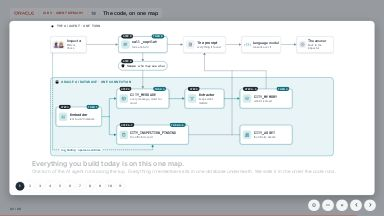
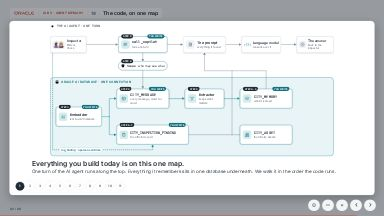
Lab 3 map: one numbering rule, the steps; exercises say YOU WRITE instead of a TODO number, and the Part numbers are gone

diff --git a/src/content/lab3Map.ts b/src/content/lab3Map.ts
@@ -21,7 +21,9 @@ export interface MapStep {
   /** the whole map, full width, no notebook (the first step) */
   wide?: boolean;
   cam: MapCam;
-  todo?: string;
+  /** the attendee writes this part: how much. One numbering rule on the page (owner, 4 Nov): the steps; a TODO has no number of its own here */
+  write?: string;
+  /** which day of the story */
   kicker?: string;
   ask: string;
   plain: string;
@@ -39,14 +41,14 @@ const ALL: MapCam = { s: 0.44, cx: 960, cy: 545 };
 
 export const MAP_STEPS: MapStep[] = [
   { title: 'The whole map', wide: true, cam: { s: 0.82, cx: 960, cy: 545 }, ask: 'Everything you build today is on this one map.', plain: 'One turn of the AI agent runs along the top. Everything it remembers sits in one database underneath. We walk it in the order the code runs.', lines: [] },
-  { title: 'One connection', cam: { s: 0.6, cx: 620, cy: 690 }, kicker: 'PART 1 · PART 2', ask: 'Where does everything live?', plain: 'One filing room, not five. One connection gives the AI agent its tables, its memory and its search.', see: 'OracleAgentMemory ready. Tables under prefix CITY_*', nodes: ['embedder', 'message', 'extractor', 'memory', 'finding', 'asset'], lines: [], code: { cell: 20, from: 'memory = OracleAgentMemory(', to: 'table_name_prefix', keys: ['connection=vector_conn', 'extract_memories=True', 'table_name_prefix'] } },
-  { title: 'The embedder', cam: { s: 1.25, cx: 330, cy: 710 }, todo: 'TODO 1', kicker: '2 LINES', ask: 'How do you search by meaning?', plain: 'Text becomes 384 numbers, like an address on a map of meaning. Reports that mean the same thing land close together.', see: 'TODO 1 passed - embedder returns float32 (n, 384) arrays', nodes: ['embedder'], lines: ['o', 'p', 'q'], code: { cell: 15, from: 'def embed(self', to: 'return np.asarray', keys: ['vectors = self.provider', 'return np.asarray'] } },
-  { title: 'A report goes in', cam: { s: 0.72, cx: 1036, cy: 600 }, todo: 'TODO 2', kicker: '2 LINES', ask: 'What happens when an inspector reports?', plain: 'Two things. The report is filed word for word. Then the extractor writes small cards of what is worth keeping.', see: 'TODO 2 passed - added message(s): …', nodes: ['message', 'extractor', 'memory'], lines: ['g', 'h'], code: { cell: 29, from: '# TODO 2', to: 'return await t.add_messages_async', keys: ['content = f', 'return await t.add_messages_async'] } },
-  { title: 'Finding a memory', cam: { s: 1.2, cx: 1412, cy: 600 }, todo: 'TODO 3', kicker: '1 LINE', ask: 'Why did the search come back empty?', plain: 'A memory belongs to whoever wrote it. Search with no name and you get nothing. Give the right name and the cards light up.', see: 'TODO 3 passed - … memories extracted from 4 narratives', nodes: ['memory'], lines: [], code: { cell: 39, from: 'results = await', to: 'max_results=30', keys: ['user_id="inspector_demo"'] } },
-  { title: 'The official record', cam: { s: 0.88, cx: 560, cy: 780 }, todo: 'TODO 4', kicker: '1 LINE', ask: 'What is a finding, if it is not a memory?', plain: 'A memory is what the AI agent noticed. A finding is what a person signed. It gets its own table, and its description becomes numbers too.', see: 'TODO 4 passed - finding_id=…', nodes: ['finding', 'embedder'], lines: ['o', 'q'], code: { cell: 50, from: '# TODO 4', to: 'vec = array', keys: ['vec = array'] } },
-  { title: 'Search with walls', cam: { s: 1.05, cx: 720, cy: 820 }, todo: 'TODO 5', kicker: 'ABOUT 7 LINES', ask: 'Nearest in meaning, but only this bridge?', plain: 'One SQL statement does both: the closest in meaning, inside the walls of this asset and this category.', see: 'TODO 5 passed - broad=…, asset-filtered=…, category-filtered=…', nodes: ['finding'], lines: [], code: { cell: 55, from: 'SELECT finding_id', to: 'FETCH FIRST', keys: ['VECTOR_DISTANCE', 'WHERE (:asset_id', 'AND (:category'] } },
-  { title: 'Who sees what', cam: { s: 0.76, cx: 800, cy: 460 }, kicker: 'PART 5', ask: 'Why can Vance not read Mercer’s private note?', plain: 'Each inspector has a private thread. What the extractor learns goes on a shelf for the asset. The database enforces this, not the AI agent.', see: "Multi-tenancy verified: Vance sees city-wide guidelines but NOT Mercer's personal notes.", nodes: ['scope', 'copilot', 'message', 'memory'], lines: ['e', 'f'], code: { cell: 71, extra: 'thread_id = f"', from: 'pooled = await', to: 'max_results=3', keys: ['thread_id = f"', 'user_id=asset_id', 'exact_thread_match'] } },
-  { title: 'One whole turn', cam: { s: 0.46, cx: 960, cy: 545 }, todo: 'TODO 6', kicker: '2 LINES', ask: 'What does the AI agent actually read?', plain: 'You write two lines: its context card and the similar findings. The rest is built: put it all in one prompt, ask, save.', see: 'TODO 6 passed - copilot ran end-to-end', nodes: ['copilot', 'scope', 'prompt', 'model', 'answer', 'memory', 'finding', 'asset'], lines: ['b', 'c', 'd', 'read', 'n', 'l', 'm', 'e'], code: { cell: 71, from: '# TODO 6 (a)', to: 'similar = find_similar', keys: ['card = await', 'similar = find_similar'] } },
+  { title: 'One connection', cam: { s: 0.6, cx: 620, cy: 690 }, ask: 'Where does everything live?', plain: 'One filing room, not five. One connection gives the AI agent its tables, its memory and its search.', see: 'OracleAgentMemory ready. Tables under prefix CITY_*', nodes: ['embedder', 'message', 'extractor', 'memory', 'finding', 'asset'], lines: [], code: { cell: 20, from: 'memory = OracleAgentMemory(', to: 'table_name_prefix', keys: ['connection=vector_conn', 'extract_memories=True', 'table_name_prefix'] } },
+  { title: 'The embedder', cam: { s: 1.25, cx: 330, cy: 710 }, write: '2 lines', ask: 'How do you search by meaning?', plain: 'Text becomes 384 numbers, like an address on a map of meaning. Reports that mean the same thing land close together.', see: 'TODO 1 passed - embedder returns float32 (n, 384) arrays', nodes: ['embedder'], lines: ['o', 'p', 'q'], code: { cell: 15, from: 'def embed(self', to: 'return np.asarray', keys: ['vectors = self.provider', 'return np.asarray'] } },
+  { title: 'A report goes in', cam: { s: 0.72, cx: 1036, cy: 600 }, write: '2 lines', ask: 'What happens when an inspector reports?', plain: 'Two things. The report is filed word for word. Then the extractor writes small cards of what is worth keeping.', see: 'TODO 2 passed - added message(s): …', nodes: ['message', 'extractor', 'memory'], lines: ['g', 'h'], code: { cell: 29, from: '# TODO 2', to: 'return await t.add_messages_async', keys: ['content = f', 'return await t.add_messages_async'] } },
+  { title: 'Finding a memory', cam: { s: 1.2, cx: 1412, cy: 600 }, write: '1 line', ask: 'Why did the search come back empty?', plain: 'A memory belongs to whoever wrote it. Search with no name and you get nothing. Give the right name and the cards light up.', see: 'TODO 3 passed - … memories extracted from 4 narratives', nodes: ['memory'], lines: [], code: { cell: 39, from: 'results = await', to: 'max_results=30', keys: ['user_id="inspector_demo"'] } },
+  { title: 'The official record', cam: { s: 0.88, cx: 560, cy: 780 }, write: '1 line', ask: 'What is a finding, if it is not a memory?', plain: 'A memory is what the AI agent noticed. A finding is what a person signed. It gets its own table, and its description becomes numbers too.', see: 'TODO 4 passed - finding_id=…', nodes: ['finding', 'embedder'], lines: ['o', 'q'], code: { cell: 50, from: '# TODO 4', to: 'vec = array', keys: ['vec = array'] } },
+  { title: 'Search with walls', cam: { s: 1.05, cx: 720, cy: 820 }, write: 'about 7 lines', ask: 'Nearest in meaning, but only this bridge?', plain: 'One SQL statement does both: the closest in meaning, inside the walls of this asset and this category.', see: 'TODO 5 passed - broad=…, asset-filtered=…, category-filtered=…', nodes: ['finding'], lines: [], code: { cell: 55, from: 'SELECT finding_id', to: 'FETCH FIRST', keys: ['VECTOR_DISTANCE', 'WHERE (:asset_id', 'AND (:category'] } },
+  { title: 'Who sees what', cam: { s: 0.76, cx: 800, cy: 460 }, ask: 'Why can Vance not read Mercer’s private note?', plain: 'Each inspector has a private thread. What the extractor learns goes on a shelf for the asset. The database enforces this, not the AI agent.', see: "Multi-tenancy verified: Vance sees city-wide guidelines but NOT Mercer's personal notes.", nodes: ['scope', 'copilot', 'message', 'memory'], lines: ['e', 'f'], code: { cell: 71, extra: 'thread_id = f"', from: 'pooled = await', to: 'max_results=3', keys: ['thread_id = f"', 'user_id=asset_id', 'exact_thread_match'] } },
+  { title: 'One whole turn', cam: { s: 0.46, cx: 960, cy: 545 }, write: '2 lines', ask: 'What does the AI agent actually read?', plain: 'You write two lines: its context card and the similar findings. The rest is built: put it all in one prompt, ask, save.', see: 'TODO 6 passed - copilot ran end-to-end', nodes: ['copilot', 'scope', 'prompt', 'model', 'answer', 'memory', 'finding', 'asset'], lines: ['b', 'c', 'd', 'read', 'n', 'l', 'm', 'e'], code: { cell: 71, from: '# TODO 6 (a)', to: 'similar = find_similar', keys: ['card = await', 'similar = find_similar'] } },
   { title: 'Day 1: Mercer', cam: ALL, kicker: 'DAY 1', ask: 'Mercer leaves two things behind.', plain: 'Her turn is saved and the extractor keeps what matters. Then, once she is sure, she signs the finding herself: a separate path.', see: 'Logged finding … - now searchable by future call_copilot invocations.', who: 'mercer', nodes: ['inspector', 'copilot', 'scope', 'message', 'extractor', 'memory', 'finding'], lines: ['a', 'e', 'f', 'g', 'h', 'confirm'], code: { cell: 79, from: 'MERCER_FINDING_ID = log_finding(', to: 'days_ago=0', keys: ['log_finding(', 'category="corrosion"', 'severity="medium"', 'overall_grade="C"'] } },
   { title: 'Later: Vance', cam: ALL, kicker: 'DAY N', ask: 'Vance asks, and Mercer’s work reaches him.', plain: 'He only calls call_copilot. His own thread is empty, but the asset’s memory and her finding come up the same road. No human handoff.', see: 'DAY N: Inspector Vance on Harbor Bridge (never met Mercer)', who: 'vance', nodes: ['inspector', 'copilot', 'scope', 'prompt', 'model', 'answer', 'memory', 'finding', 'asset'], lines: ['a', 'e', 'read', 'l', 'm', 'n', 'b', 'c', 'd'], code: { cell: 85, from: 'VANCE_DIAGNOSIS = await', to: 'asset_id="Harbor Bridge"', keys: ['VANCE_DIAGNOSIS = await', 'inspector_id="Vance"', 'asset_id="Harbor Bridge"'] } },
 ];

diff --git a/src/overlay/concepts/CodeMap.tsx b/src/overlay/concepts/CodeMap.tsx
@@ -52,20 +52,21 @@ interface NodeDef {
   sub: string;
   mono?: boolean;
   teal?: boolean;
-  todo?: string;
+  /** the attendee writes code here */
+  write?: boolean;
   step?: string;
 }
 const NODES: NodeDef[] = [
   { id: 'inspector', x: 96, y: 220, w: 220, h: 100, name: 'Inspector', sub: 'Mercer, Vance' },
-  { id: 'copilot', x: 510, y: 220, w: 300, h: 100, icon: 'chat', name: 'call_copilot', sub: 'runs one turn', mono: true, teal: true, todo: 'TODO 6', step: 'STEP 9' },
+  { id: 'copilot', x: 510, y: 220, w: 300, h: 100, icon: 'chat', name: 'call_copilot', sub: 'runs one turn', mono: true, teal: true, write: true, step: 'STEP 9' },
   { id: 'prompt', x: 906, y: 220, w: 260, h: 100, icon: 'doc', name: 'The prompt', sub: 'everything it found' },
   { id: 'model', x: 1262, y: 220, w: 240, h: 100, name: 'Language model', sub: 'reasons over it' },
   { id: 'answer', x: 1598, y: 220, w: 226, h: 100, icon: 'ok', name: 'The answer', sub: 'back to the inspector' },
-  { id: 'embedder', x: 130, y: 650, w: 280, h: 120, icon: 'bars', name: 'Embedder', sub: 'text to 384 numbers', teal: true, todo: 'TODO 1', step: 'STEP 3' },
-  { id: 'message', x: 500, y: 540, w: 320, h: 120, icon: 'table', name: 'CITY_MESSAGE', sub: 'every message, word for word', mono: true, teal: true, todo: 'TODO 2', step: 'STEP 4' },
+  { id: 'embedder', x: 130, y: 650, w: 280, h: 120, icon: 'bars', name: 'Embedder', sub: 'text to 384 numbers', teal: true, write: true, step: 'STEP 3' },
+  { id: 'message', x: 500, y: 540, w: 320, h: 120, icon: 'table', name: 'CITY_MESSAGE', sub: 'every message, word for word', mono: true, teal: true, write: true, step: 'STEP 4' },
   { id: 'extractor', x: 916, y: 540, w: 240, h: 120, icon: 'filter', name: 'Extractor', sub: 'keeps what matters', teal: true, step: 'STEP 4' },
-  { id: 'memory', x: 1252, y: 540, w: 320, h: 120, icon: 'layers', name: 'CITY_MEMORY', sub: 'what it learned', mono: true, teal: true, todo: 'TODO 3', step: 'STEP 4, 5' },
-  { id: 'finding', x: 500, y: 760, w: 440, h: 120, icon: 'clip', name: 'CITY_INSPECTION_FINDING', sub: 'the official record', mono: true, teal: true, todo: 'TODO 4, 5', step: 'STEP 6, 7' },
+  { id: 'memory', x: 1252, y: 540, w: 320, h: 120, icon: 'layers', name: 'CITY_MEMORY', sub: 'what it learned', mono: true, teal: true, write: true, step: 'STEP 4, 5' },
+  { id: 'finding', x: 500, y: 760, w: 440, h: 120, icon: 'clip', name: 'CITY_INSPECTION_FINDING', sub: 'the official record', mono: true, teal: true, write: true, step: 'STEP 6, 7' },
   { id: 'asset', x: 1252, y: 760, w: 320, h: 120, icon: 'city', name: 'CITY_ASSET', sub: 'the 26 city assets', mono: true, teal: true },
 ];
 
@@ -113,7 +114,7 @@ function MapNodeCard({ n, step }: { n: NodeDef; step: MapStep }) {
         <span>{sub}</span>
       </div>
       {n.step && <span className="cm__tag">{n.step}</span>}
-      {n.todo && <span className="cm__tag cm__tag--todo">{n.todo}</span>}
+      {n.write && <span className="cm__tag cm__tag--write">YOU WRITE</span>}
     </div>
   );
 }
@@ -256,7 +257,7 @@ export function CodeMap() {
             <div className="cm__say cm__fade" style={{ opacity: lit ? 1 : 0 }}>
               <div className="cm__tags">
                 <span className="cm__tag">STEP {n + 1}</span>
-                {step.todo && <span className="cm__tag cm__tag--todo">{step.todo}</span>}
+                {step.write && <span className="cm__tag cm__tag--write">YOU WRITE {step.write.toUpperCase()}</span>}
                 {step.kicker && <span className="cm__kicker">{step.kicker}</span>}
               </div>
               <div className="cm__ask" data-testid="code-map-ask">{step.ask}</div>

diff --git a/tests/overlay/CodeMap.test.tsx b/tests/overlay/CodeMap.test.tsx
@@ -71,3 +71,17 @@ test('the two days show their own inspector and only their own path', () => {
   expect(container.querySelector('[data-line="read"]')!.getAttribute('data-lit')).toBe('true');
   expect(container.querySelector('[data-line="confirm"]')!.getAttribute('data-lit')).toBeNull();
 });
+
+// owner, 4 Nov: "there should be one numbering rule": the steps are the only numbers; an exercise says "you write", with no number of its own
+test('the map and the panel number only the steps', () => {
+  const { container } = render(<CodeMap />);
+  expect(container.querySelector('.cm__world')!.textContent).not.toMatch(/TODO|PART/);
+  expect(container.querySelectorAll('.cm__world .cm__tag--write')).toHaveLength(5);
+  go(2);
+  const tags = container.querySelector('.cm__tags')!.textContent!;
+  expect(tags).toContain('STEP 3');
+  expect(tags).toContain('YOU WRITE 2 LINES');
+  expect(tags).not.toMatch(/TODO|PART/);
+  go(7);
+  expect(container.querySelector('.cm__tags')!.textContent).not.toMatch(/TODO|PART|YOU WRITE/);
+});

diff --git a/src/overlay/concepts/codeMap.css b/src/overlay/concepts/codeMap.css
@@ -25,9 +25,9 @@
 .cm__name b.mono.long { font-size: 20px; }
 .cm__name span { font-size: 16px; color: #5b6773; }
 .cm__tag { display: inline-flex; align-items: center; height: 26px; padding: 0 11px; border-radius: 13px; color: #fff; font-size: 14px; font-weight: 700; letter-spacing: 0.04em; white-space: nowrap; background: #1f2a33; }
-.cm__tag--todo { background: #14707f; }
+.cm__tag--write { background: #14707f; }
 .cm__node > .cm__tag { position: absolute; top: -15px; left: 16px; }
-.cm__node > .cm__tag--todo { left: auto; right: 16px; }
+.cm__node > .cm__tag--write { left: auto; right: 16px; }
 .cm__chip { position: absolute; left: 150px; top: 898px; height: 28px; padding: 0 12px; display: flex; align-items: center; background: #fff; border: 1px dashed #14707f; border-radius: 14px; box-sizing: border-box; font-size: 16px; font-weight: 600; color: #14707f; transition: opacity 0.6s ease; }
 .cm__chip.is-off { opacity: 0.25; }
 .cm__lines { position: absolute; left: 0; top: 0; fill: none; }

diff --git a/CLAUDE.md b/CLAUDE.md
@@ -61,7 +61,7 @@ The 18 blue pages of the Harbor Bridge deck (0.6, 2.2c, 2.2d, 2.3, 2.3a, 2.4f-h,
 
 ## Lab 3 code map (owner, 4 Nov)
 
-Lab 3's coding part is one page, `3.6m` (overlay `CodeMap`, data in `src/content/lab3Map.ts`, drafted on the canvas "Lab 3 Code Map"): eleven steps by Next (`PAGE_STEPS`), the order the code runs. Each Next flies the map to the node while a real notebook window glides to that part of the code; its lines stay, key lines light up, the rest fades to 22%. The window shows the student notebook with each TODO's answer filled in and the screen's naming rules applied (for the screen only; the notebook file is never changed). The pages it replaces, 3.6 to 3.14a, are hidden, not deleted: `LAB3_CUT` in `src/scenes/chapter2.ts`. After the map come 3.15 onward (Back on the bridge), the Lab 3 recap and the final recap.
+Lab 3's coding part is one page, `3.6m` (overlay `CodeMap`, data in `src/content/lab3Map.ts`, drafted on the canvas "Lab 3 Code Map"): eleven steps by Next (`PAGE_STEPS`), the order the code runs.  One numbering rule on the page: the steps; an exercise says "YOU WRITE", never a TODO or Part number (the notebook window keeps its own text). Each Next flies the map to the node while a real notebook window glides to that part of the code; its lines stay, key lines light up, the rest fades to 22%. The window shows the student notebook with each TODO's answer filled in and the screen's naming rules applied (for the screen only; the notebook file is never changed). The pages it replaces, 3.6 to 3.14a, are hidden, not deleted: `LAB3_CUT` in `src/scenes/chapter2.ts`. After the map come 3.15 onward (Back on the bridge), the Lab 3 recap and the final recap.
 
 ## Open items (26 Oct)
 
